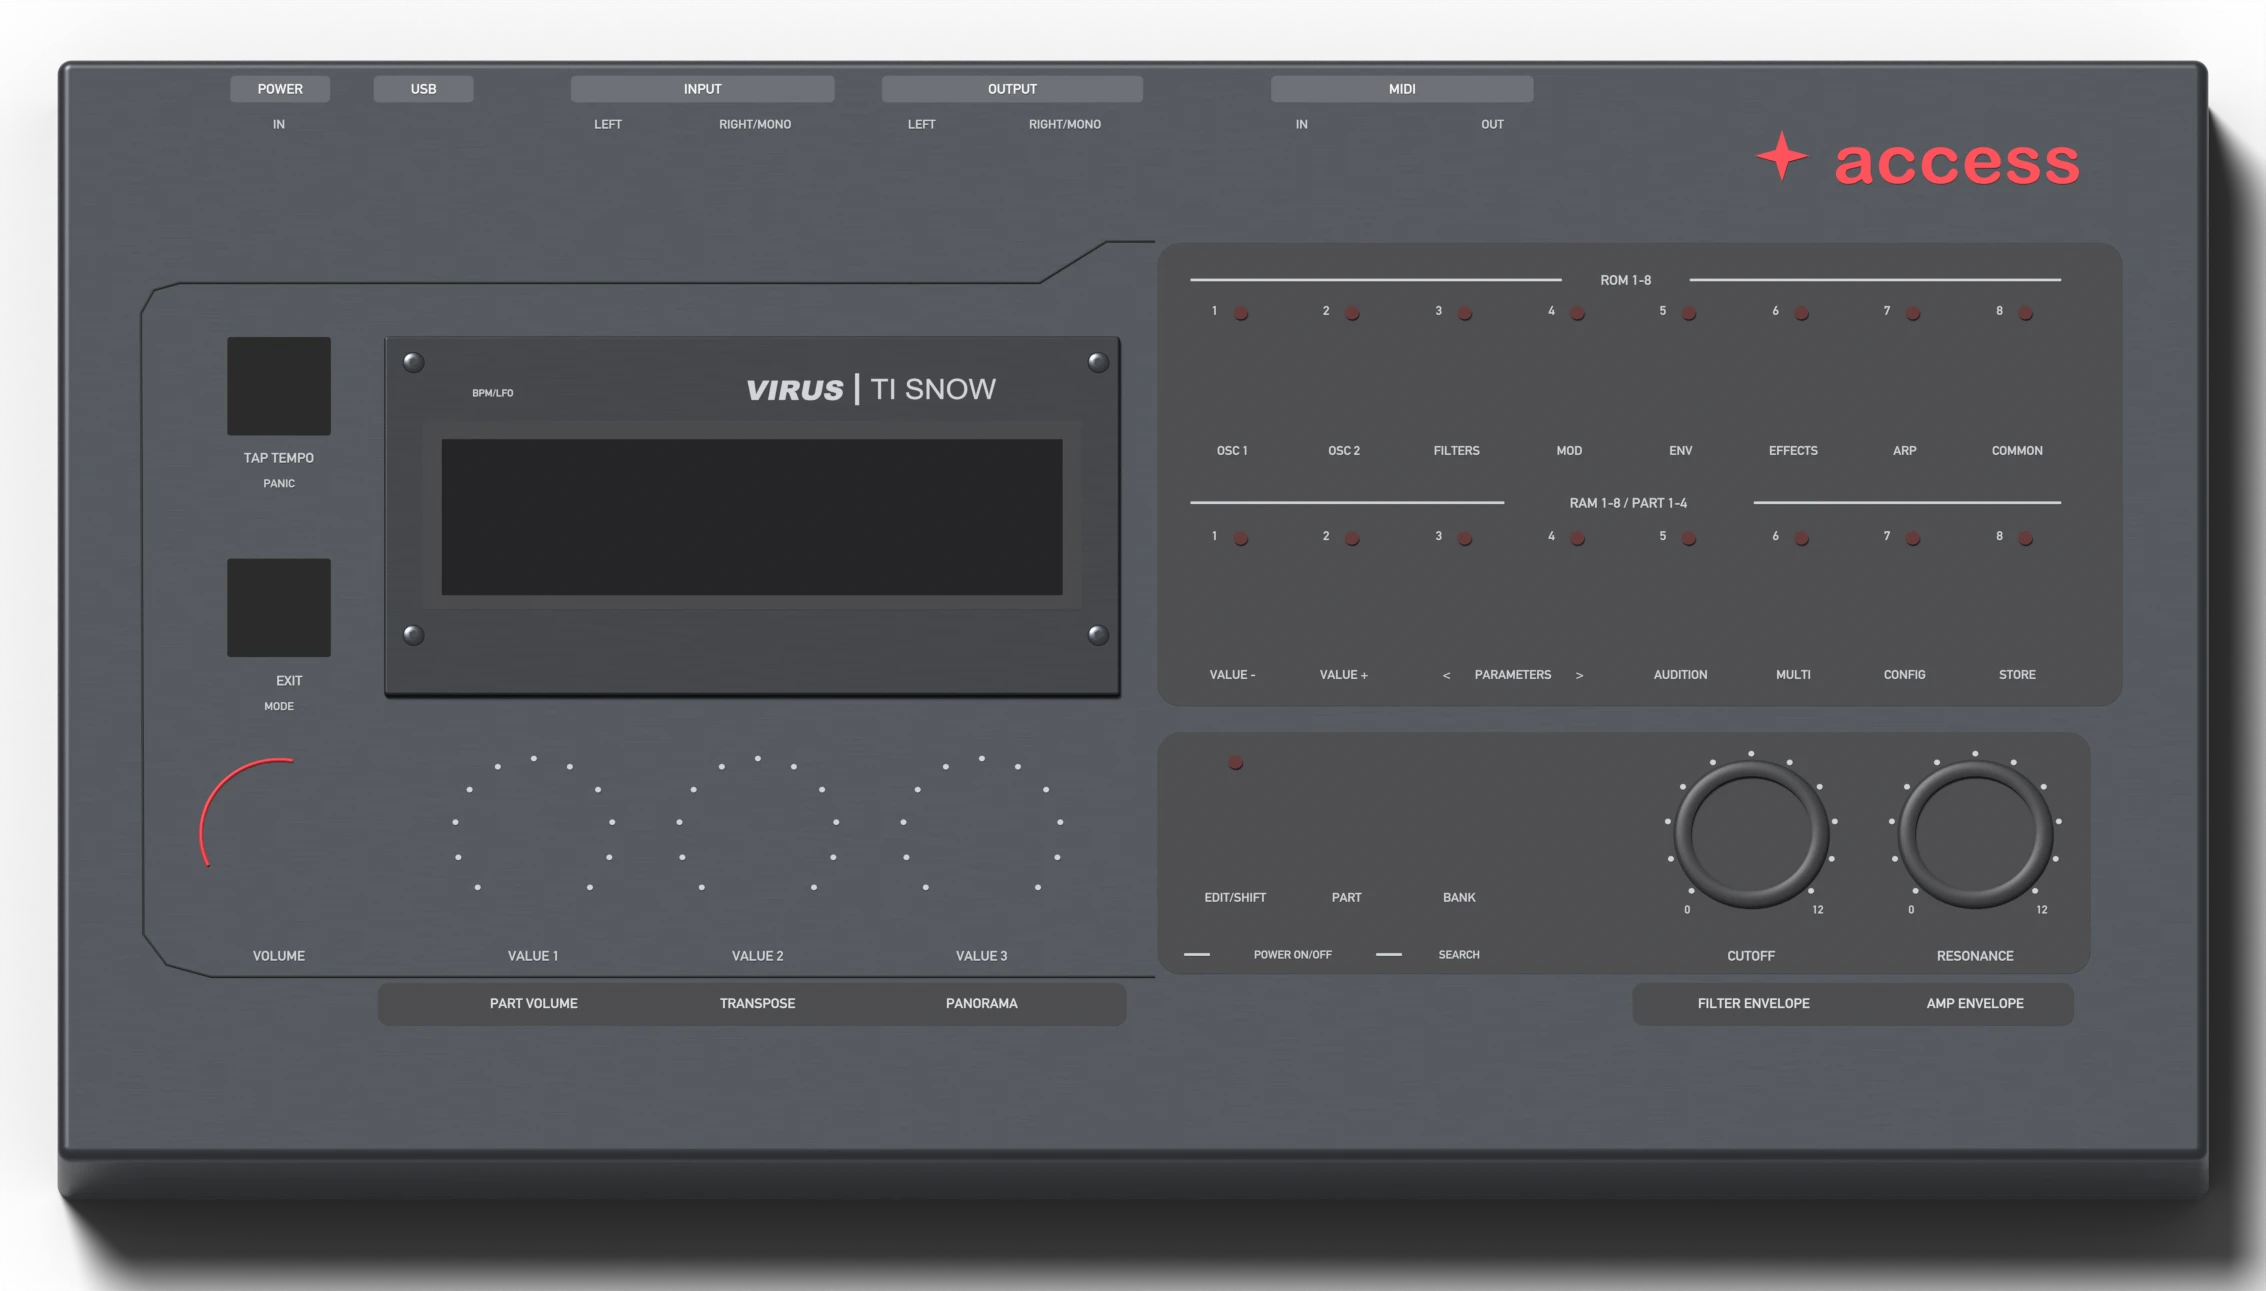
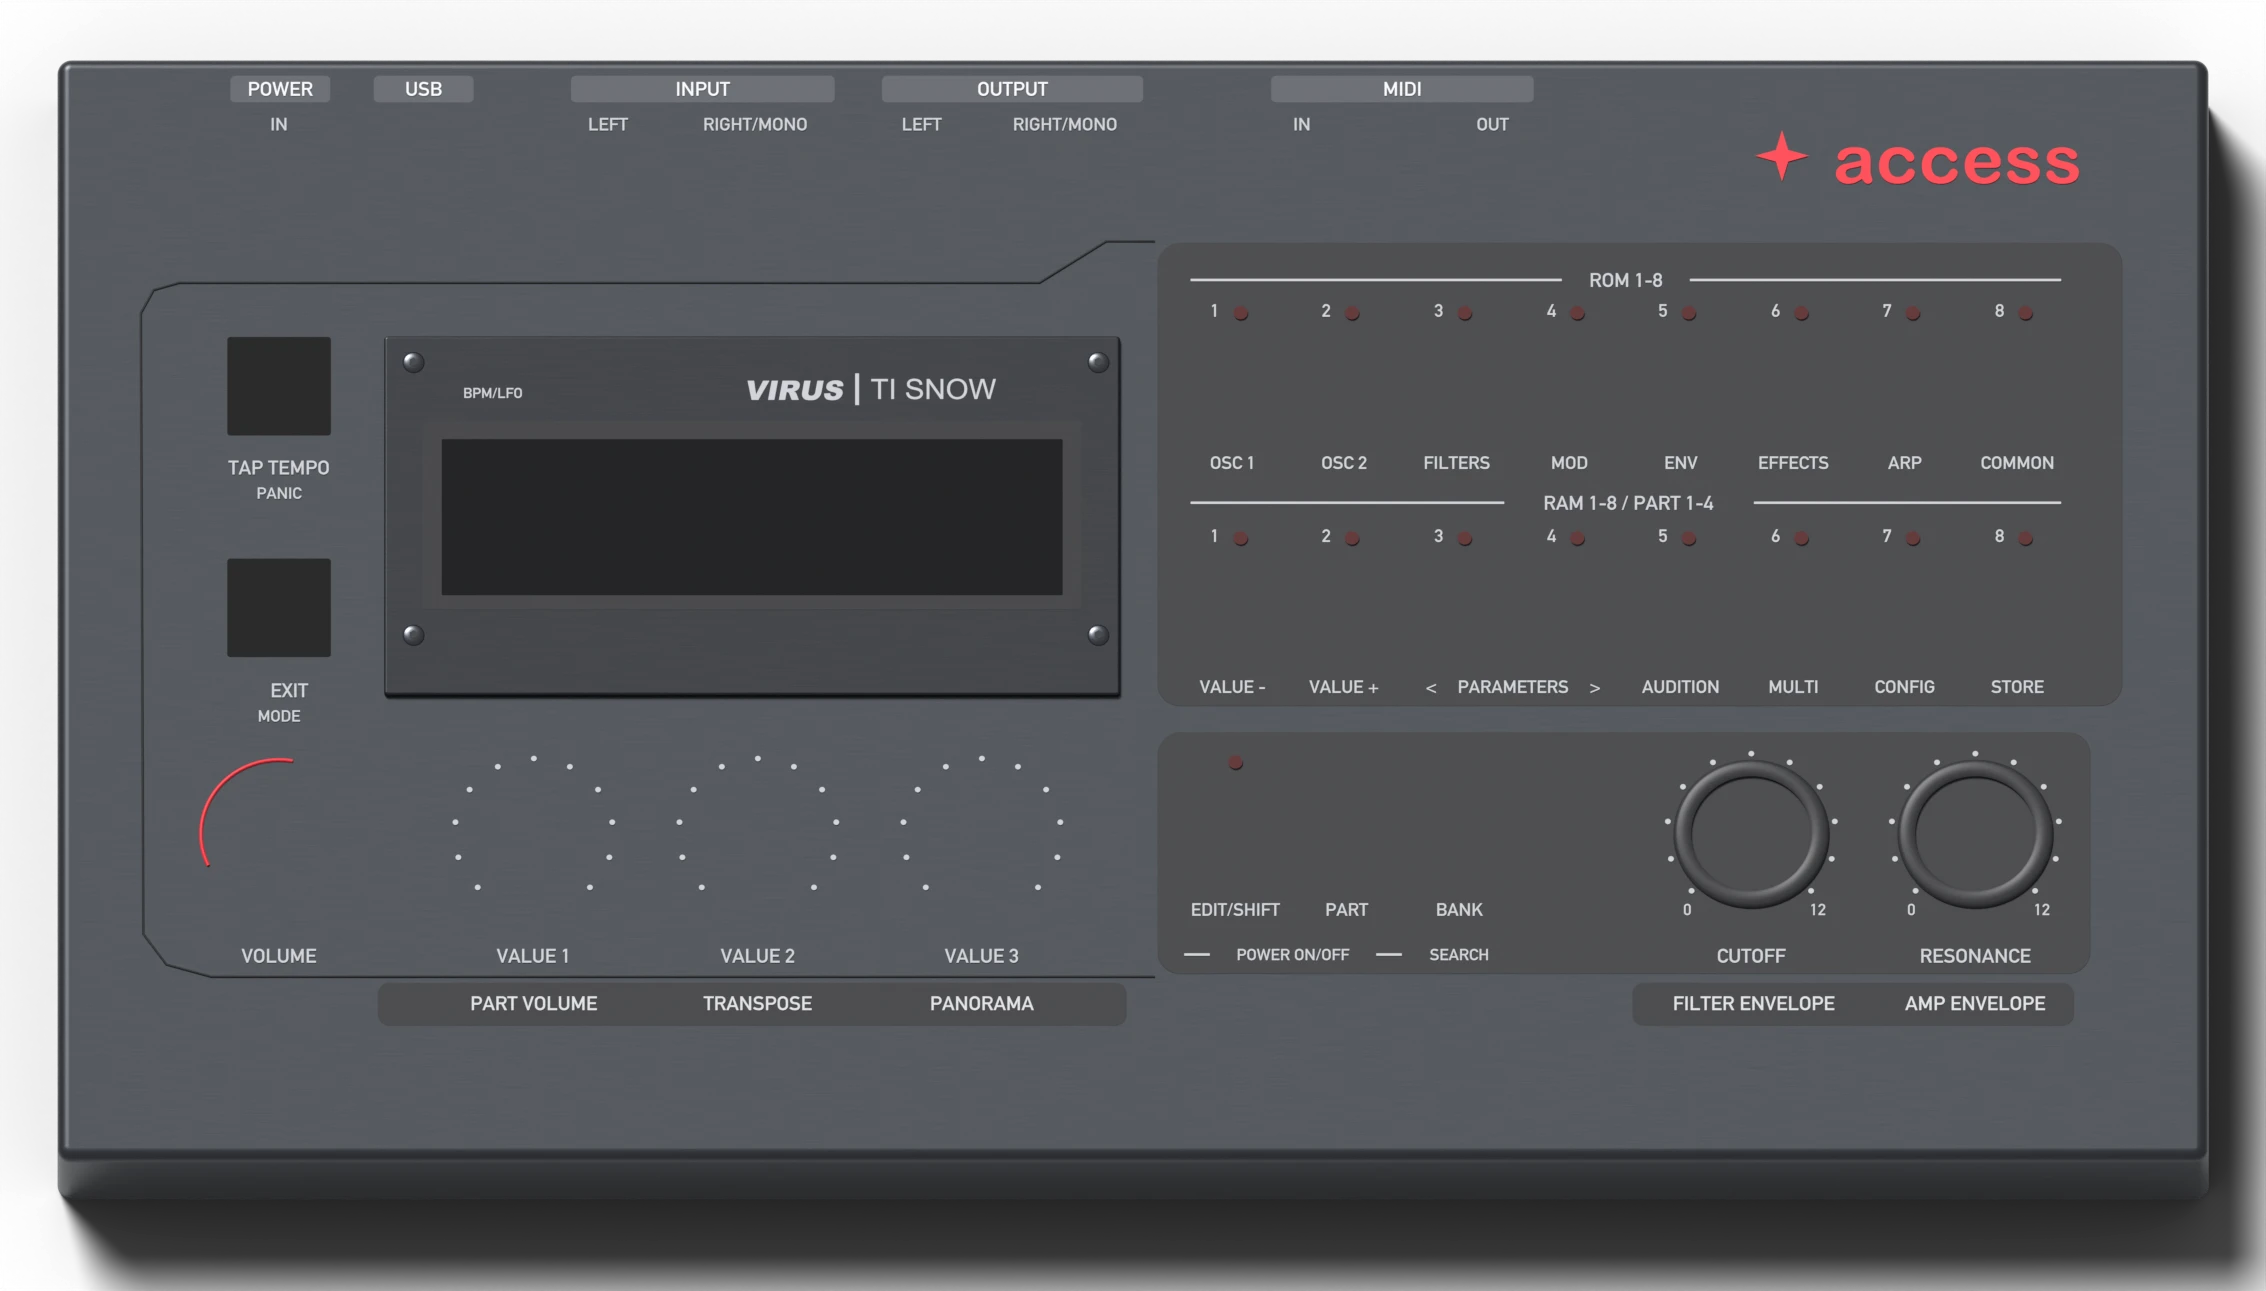
ui: larger, darker faceplate serigraphy under keys and knobs, clear of key shadows

diff --git a/tools/render-sprites/virus_faceplate.py b/tools/render-sprites/virus_faceplate.py
@@ -88,7 +88,7 @@ def mat(name, color, rough=0.5, metal=0.0, emission=0.0):
 
 
 PALETTE = {
-    'snow': dict(ink=vp.srgb('#46484d'), plate=vp.srgb('#7b726c'), plate_ink=vp.srgb('#f1eee8'),
+    'snow': dict(ink=vp.srgb('#3a3c41'), plate=vp.srgb('#7b726c'), plate_ink=vp.srgb('#f1eee8'),
                  recess=vp.srgb('#c9c8c3'), groove=vp.srgb('#9d9c97'), box=vp.srgb('#b3b4b7'),
                  box_ink=vp.srgb('#f4f4f2'), logo=vp.srgb('#2c3a5c'), slot=vp.srgb('#1c1d20'),
                  led=vp.srgb('#bdb57a'), collar=vp.srgb('#e8e8e5'), screen=vp.srgb('#15191d')),
@@ -143,13 +143,16 @@ def ring(name, px, py, r0, r1, material, z, height=0.06):
     return o
 
 
-Z_INK = T + 0.012     # sopra le piastre degli incavi (T+0.004) e le placche (T+0.006)
+Z_INK = T + 0.012
+LABEL_SCALE = 1.45    # serigrafia piu' grande del vero per la leggibilita' a schermo (loghi esclusi)     # sopra le piastre degli incavi (T+0.004) e le placche (T+0.006)
 
 
 def text(body, px, py, cap_px, font, material, align='CENTER', shear=0.0, z=None, spacing=1.0):
     cu = bpy.data.curves.new('txt', 'FONT')
     cu.body = body
     cu.font = font
+    if cap_px <= 14:
+        cap_px *= LABEL_SCALE
     cu.size = cap_px / 50.0 / 0.72
     cu.align_x = align
     cu.align_y = 'CENTER'
@@ -291,22 +294,22 @@ def build_faceplate(skin):
     text('BPM/LFO', 405, 322, 8, F['din'], ink, z=T + 0.09)
 
     # serigrafia del pannello
-    for s, x, y, c in (('TAP TEMPO', 238, 374, 11), ('PANIC', 238, 395, 9), ('EXIT', 246, 557, 11),
-                       ('MODE', 238, 578, 9), ('VOLUME', 238, 783, 11), ('VALUE 1', 437, 783, 11),
+    for s, x, y, c in (('TAP TEMPO', 238, 382, 11), ('PANIC', 238, 403, 9), ('EXIT', 246, 565, 11),
+                       ('MODE', 238, 586, 9), ('VOLUME', 238, 783, 11), ('VALUE 1', 437, 783, 11),
                        ('VALUE 2', 612, 783, 11), ('VALUE 3', 787, 783, 11), ('CUTOFF', 1388, 783, 11),
-                       ('RESONANCE', 1563, 783, 11), ('EDIT/SHIFT', 985, 735, 10), ('PART', 1072, 735, 10),
-                       ('BANK', 1160, 735, 10), ('POWER ON/OFF', 1030, 782, 9), ('SEARCH', 1160, 782, 9),
-                       ('VALUE -', 983, 552, 10), ('VALUE +', 1070, 552, 10), ('PARAMETERS', 1202, 552, 10),
-                       ('AUDITION', 1333, 552, 10), ('MULTI', 1421, 552, 10), ('CONFIG', 1508, 552, 10),
-                       ('STORE', 1596, 552, 10)):
+                       ('RESONANCE', 1563, 783, 11), ('EDIT/SHIFT', 985, 745, 10), ('PART', 1072, 745, 10),
+                       ('BANK', 1160, 745, 10), ('POWER ON/OFF', 1030, 782, 9), ('SEARCH', 1160, 782, 9),
+                       ('VALUE -', 983, 562, 10), ('VALUE +', 1070, 562, 10), ('PARAMETERS', 1202, 562, 10),
+                       ('AUDITION', 1333, 562, 10), ('MULTI', 1421, 562, 10), ('CONFIG', 1508, 562, 10),
+                       ('STORE', 1596, 562, 10)):
         text(s, x, y, c, F['din'], ink)
     for s, x in zip(['OSC 1', 'OSC 2', 'FILTERS', 'MOD', 'ENV', 'EFFECTS', 'ARP', 'COMMON'], ROW_X):
-        text(s, x, 368, 10, F['din'], ink)
+        text(s, x, 378, 10, F['din'], ink)
     for i, x in enumerate(ROW_X):
         text(str(i + 1), x - 14, 253, 10, F['din'], ink)
         text(str(i + 1), x - 14, 438, 10, F['din'], ink)
-    text('<', 1150, 552, 10, F['din'], ink)
-    text('>', 1254, 552, 10, F['din'], ink)
+    text('<', 1138, 562, 10, F['din'], ink)
+    text('>', 1266, 562, 10, F['din'], ink)
     for x0, x1 in ((945, 965), (1095, 1115)):            # parentesi di POWER ON/OFF
         flat_rrect('br', x0, 781, x1, 783, 0.005, ink, Z_INK)
     text('<', 1006 - 90, 738, 9, F['din'], ink) if False else None
